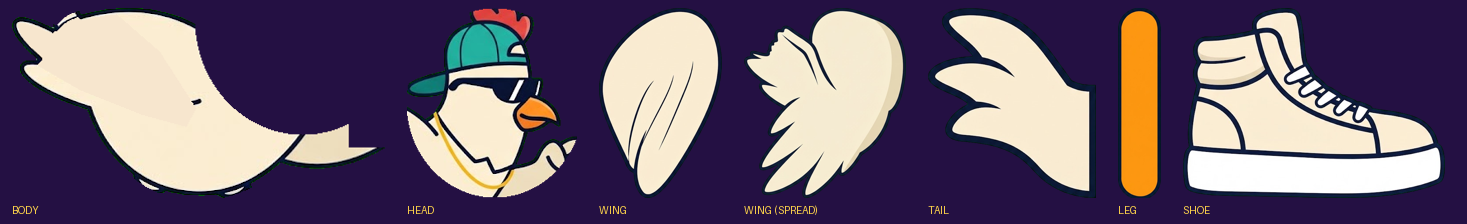
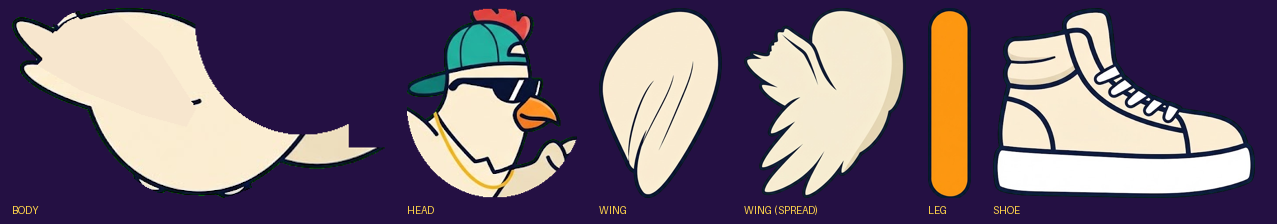
Fix mid-air control, ground the sneakers, drop the invented tail
Flight control: a quick tap could end before the downstroke produced any lift,
so tapping while falling felt like nothing happened until you landed. Every press
now lands an instant impulse (FLAP_KICK) and latches the stroke for 0.16s so it
always completes. Verified by simulation: a 60ms tap out of a full-speed dive now
reaches -512 climb instead of -128.

Holding also stopped silently mid-flight because releaseJump was bound to
pointercancel, which a phone fires on the smallest finger movement. Pointers are
now tracked by id in a Set and only a genuine release ends the hold.

Sneakers floated above the ground because CK.ANKLE and the shoe art's height
disagreed. ANKLE is now computed from the shoe image on load, so the sole meets
the ground by construction, and the sole stays nearly flat instead of tilting
with the shin.

Tail removed: the reference's tail is part of the body silhouette and the body
cut already contains it. The separate tail was an invention that never matched.

Claude-Session: https://claude.ai/code/session_01GPMrTdwpCZtjDF6U8tWZ25

diff --git a/index.html b/index.html
@@ -522,7 +522,7 @@ function setLegs(p, ax,ay, bx,by){
 /* ---- the poses ---- */
 /* wing angles: 0 = straight down, more negative = further up */
 function poseRun(ph, speedT, p){
-  const stride=lerp(44,52,speedT), lift=lerp(22,30,speedT), bob=lerp(5,7,speedT);
+  const stride=lerp(40,48,speedT), lift=lerp(20,28,speedT), bob=lerp(5,7,speedT);
   p.y = bob*Math.cos(4*Math.PI*(ph-0.12));
   p.x = 2*Math.sin(4*Math.PI*ph);
   p.rot = lerp(0.08,0.24,speedT) + 0.02*Math.sin(4*Math.PI*ph);
@@ -752,7 +752,7 @@ function drawShoePart(kx,ky,fx,fy,col,far){
   ctx.restore();
 }
 function drawSneaker(kx,ky,fx,fy,col){
-  const a=Math.atan2(fx-kx,fy-ky)*0.32;     // the sole stays flatter than the shin
+  const a=Math.atan2(fx-kx,fy-ky)*0.18;     // the sole stays nearly flat, as it does when planted
   ctx.save(); ctx.translate(fx,fy); ctx.rotate(-a+Math.PI/2);
   ctx.beginPath(); ctx.roundRect(-15,-15,48,22,[11,15,5,11]); cp(col,5);
   ctx.beginPath(); ctx.roundRect(-17,2,53,13,6.5); cp(CKC.shoe,4.2);
@@ -874,8 +874,15 @@ loadPart('headref','art/part-headref.png',{w:84, ax:0.5146, ay:0.4978});
 loadPart('head','art/part-head.png',    {w:78, ax:0.4324, ay:0.4607});   // bare head, for other hats
 loadPart('wing','art/part-wing.png', {w:90,   ax:0.6240, ay:0.0852, rot:-0.445});
 loadPart('wingfold','art/part-wingfold.png', {w:62, ax:0.6158, ay:0.0824, rot:-0.162});
-loadPart('tail','art/part-tail.png', {w:78,   ax:0.9900, ay:0.6989});
+// no tail part: the reference's tail is part of the body silhouette itself
 loadPart('shoe','art/part-shoe.png', {w:36,   ax:0.2200, ay:0.220});
+/* the foot IK aims the ankle ANKLE units above the ground, and the shoe hangs
+   (1-ay)*height below the ankle - so those two must be the same number or the
+   sneakers float or sink. Read it off the art rather than guessing. */
+PARTS['shoe'].img.addEventListener('load', ()=>{
+  const q = PARTS['shoe'];
+  CK.ANKLE = (1-q.ay) * q.w * (q.img.naturalHeight/q.img.naturalWidth);
+}, {once:true});
 loadPart('leg', 'art/part-leg.png',  {w:17,  ax:0.50, ay:0.00});
 
 /* ---- the head, drawn in the same language as the body ---- */
@@ -1629,6 +1636,9 @@ const VY_UP = -900, VY_DOWN = 1050;
 /* Re-grabbing after a dive used to take ~1s and 250 units of sink, which read
    as the bird being heavy. The first stroke now bites into the fall instead. */
 const CATCH = 0.45;
+/* Every press also lands an instant impulse, so a quick tap lifts even if the
+   finger is gone before the downstroke completes. */
+const FLAP_KICK = 340;
 
 /* ---------- DOM ---------- */
 const $ = s => document.querySelector(s);
@@ -1766,23 +1776,35 @@ function pressJump(){
   if(game.mode!=='play') return;
   if(!player.jumpHeld){
     player.flapT = 0.13;                       // start the downstroke immediately
-    if(player.vy > 200){                       // a hard catch out of a dive
+    player.flapLatch = 0.16;                   // ...and guarantee it finishes, even on a fast tap
+    if(player.vy > 120){                       // a hard catch out of a dive
       player.vy *= CATCH; player.powerT = 1;
-      S.flap(); addShake(2);
+      addShake(2);
       featherBurst(player.x-24, GROUND-player.y-30, 4, 210);
     }
+    player.vy -= FLAP_KICK;                    // every press lifts, immediately
+    S.flap();
   }
   player.jumpHeld = true;
   if(game.tut){ game.tut=false; elTut.classList.remove('show'); }
 }
 function releaseJump(){ player.jumpHeld = false; }
+/* Track pointers by id. A phone fires pointercancel on the smallest finger
+   movement, and releasing on that made "hold to fly" stop silently. */
+const held = new Set();
 window.addEventListener('pointerdown', e => {
   audioInit();
   if(e.target.closest('button')) return;
+  held.add(e.pointerId);
   pressJump();
 }, {passive:true});
-window.addEventListener('pointerup', releaseJump, {passive:true});
-window.addEventListener('pointercancel', releaseJump, {passive:true});
+function liftPointer(e){
+  held.delete(e.pointerId);
+  if(held.size === 0) releaseJump();
+}
+window.addEventListener('pointerup', liftPointer, {passive:true});
+window.addEventListener('pointercancel', liftPointer, {passive:true});
+window.addEventListener('blur', ()=>{ held.clear(); releaseJump(); });
 window.addEventListener('keydown', e => {
   if(e.code==='Space'||e.code==='ArrowUp'||e.code==='KeyW'){
     e.preventDefault(); audioInit(); if(!e.repeat) pressJump();
@@ -1987,9 +2009,11 @@ function updatePlay(dt){
     if(game.demoFlap!==undefined) p.flapT = game.demoFlap;
   }
   p.nearCool = Math.max(0, p.nearCool-dt);
+  p.flapLatch = Math.max(0, (p.flapLatch||0) - dt);
+  const flapping = p.jumpHeld || p.flapLatch > 0;
   const ceilH = GROUND - CEIL;                       // usable altitude, in world units
   p.vy += GRAV*dt;
-  if(p.jumpHeld){
+  if(flapping){
     // lift arrives in pulses on each downstroke, so holding still costs attention
     p.flapT += dt*FLAP_HZ;
     const stroke = Math.max(0, Math.sin(p.flapT*TAU));

diff --git a/_CONTINUE-HERE.md b/_CONTINUE-HERE.md
@@ -25,8 +25,15 @@ character finally matches: it is literally the reference art. The head cut keeps
 the cap, shades and chain, so it is used whenever no head/face cosmetic is
 equipped; equip one and `part-head.png` (the bare head) is used instead.
 
-The remaining parts (`part-wing`, `part-wingfold`, `part-tail`, `part-leg`,
-`part-shoe`) are generated pieces in the same style.
+The remaining parts (`part-wing`, `part-wingfold`, `part-leg`, `part-shoe`) are
+generated pieces in the same style.
+
+**There is deliberately no tail part.** The reference's tail is part of the body
+silhouette, and the body cut already contains it; a separate tail was an
+invention that never matched. Do not add one back.
+
+The spread wing could not be cut from `fly.png` either - both wings overlap in
+that pose, so no polygon isolates one. It stays generated.
 
 To re-cut from a reference: flood-fill the body's cream region, dilate ~9px to
 swallow its own outline, cut the head with an ellipse, erase the reference's
@@ -137,6 +144,16 @@ rules that keep them consistent.
   feeling like a jetpack. **The mean of a half-sine is 1/pi**, so peak lift must
   be about 3.1x the average you actually want; getting this wrong once made
   holding the screen push him *down* and the game looked dead.
+- `FLAP_KICK 340` — every press lands an instant upward impulse, and
+  `flapLatch` keeps the downstroke running for 0.16s even if the finger lifts
+  first. Without those, a quick tap could end before the stroke produced lift and
+  the control felt dead in mid-air.
+- Pointers are tracked in a `Set` by id. A phone fires `pointercancel` on the
+  smallest finger movement, and releasing on that made "hold to fly" stop
+  silently mid-flight. Never release on a bare `pointercancel` again.
+- `CK.ANKLE` is **computed from the shoe art** on load: the IK aims the ankle
+  ANKLE units above the ground and the shoe hangs `(1-ay)*height` below it, so
+  those must be the same number or the sneakers float or sink.
 - `CATCH 0.45` — re-pressing while diving kills 45% of downward speed and fires a
   wider power stroke. Without it, recovering from a full-speed fall cost 250
   units of sink over 0.95s and the bird read as heavy. With it: 0.07s, no sink.
